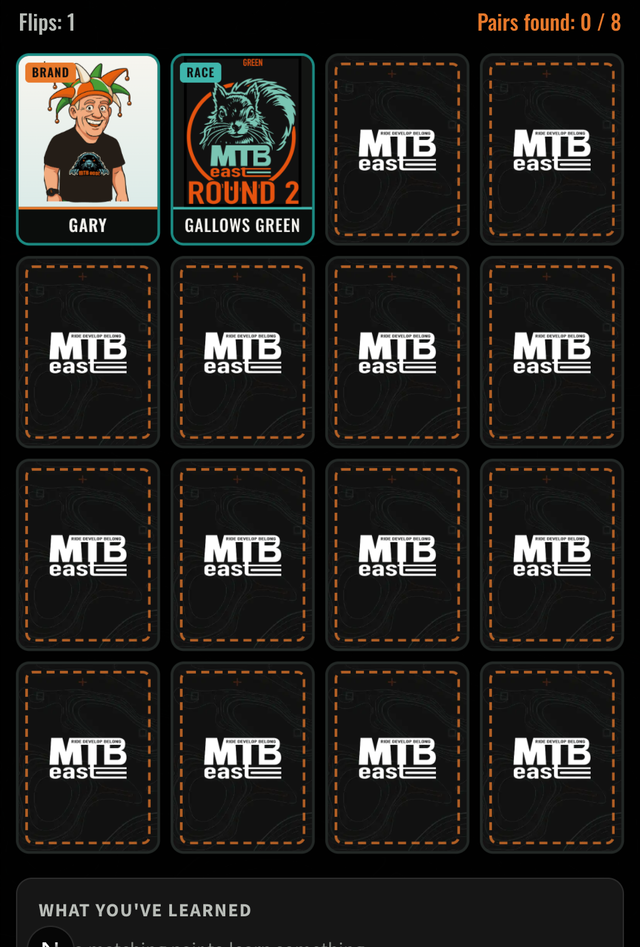
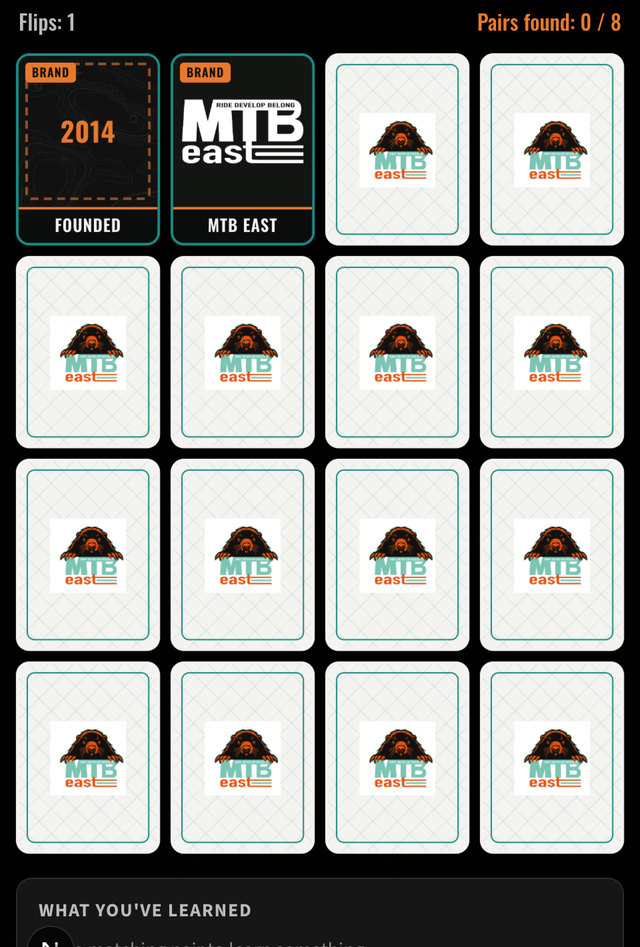
Rename "Apps" nav link to "Games"; white playing-card-style card back
Trail Sign Match's unflipped card now looks like the back of a real
playing card: white background, a diagonal lattice pattern, a teal
double border, and the full-colour MTB East logo (the version designed
for a white background) centred -- replacing the previous dark card
with a faded mascot mark. Added a small text-card renderer's sibling
white-card-back CSS; same look in the games hub and the app's own nav.

diff --git a/games/trail-sign-match/style.css b/games/trail-sign-match/style.css
@@ -223,14 +223,24 @@ body::before {
   overflow: hidden;
 }
 .card-back {
-  background: var(--card);
-  border: 1px solid var(--border);
+  background-color: var(--paper);
+  background-image:
+    repeating-linear-gradient(45deg, rgba(27, 138, 130, 0.08) 0, rgba(27, 138, 130, 0.08) 1px, transparent 1px, transparent 13px),
+    repeating-linear-gradient(-45deg, rgba(27, 138, 130, 0.08) 0, rgba(27, 138, 130, 0.08) 1px, transparent 1px, transparent 13px);
+  border: 2px solid var(--paper);
+}
+.card-back::before {
+  content: "";
+  position: absolute;
+  inset: 6px;
+  border: 1.5px solid var(--teal);
+  border-radius: 6px;
 }
 .card-back::after {
   content: "";
-  width: 46%;
-  height: 46%;
-  background-image: url('assets/header-mark.png');
+  width: 60%;
+  height: 60%;
+  background-image: url('assets/logo-on-white.png');
   background-size: contain;
   background-repeat: no-repeat;
   background-position: center;

diff --git a/src/App.jsx b/src/App.jsx
@@ -759,7 +759,7 @@ const SITE_NAV_LINKS = [
   { href: "/sportive", label: "Sportive" },
   { href: "/coaching", label: "Coaching" },
   { href: "/programme", label: "Sofa to Singletrack", current: true },
-  { href: "/programme/games", label: "Apps" },
+  { href: "/programme/games", label: "Games" },
   { href: "/academy", label: "Academy" },
   { href: "/results", label: "Results" },
   { href: "/news", label: "News" },

diff --git a/games/index.html b/games/index.html
@@ -22,7 +22,7 @@
           <a href="/sportive">Sportive</a>
           <a href="/coaching">Coaching</a>
           <a href="/programme">Sofa to Singletrack</a>
-          <a href="/programme/games" class="current">Apps</a>
+          <a href="/programme/games" class="current">Games</a>
           <a href="/academy">Academy</a>
           <a href="/results">Results</a>
           <a href="/news">News</a>
